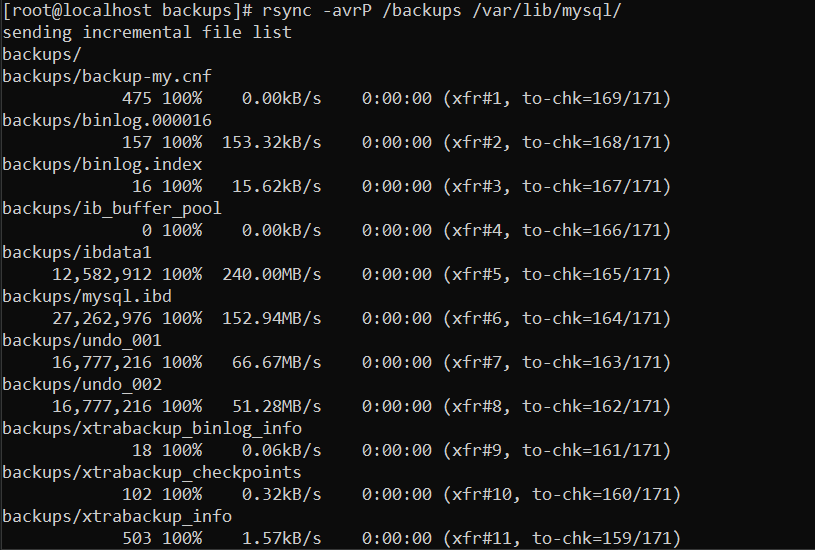
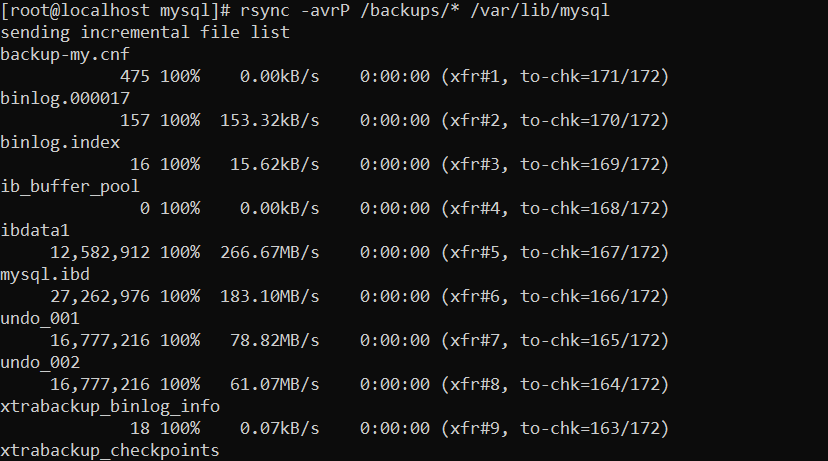
main

diff --git a/Ap4/xtrabackup/README.md b/Ap4/xtrabackup/README.md
@@ -16,8 +16,20 @@ Creem el backup
 
 ![ScreenShot](imgs/backup.png)
 
-Ara restaurarem el backup que acabem de crear
+Parem el servei de mysql
 
-`rsync -avrP /<pathBackup> /<pathDesti>`
+![ScreenShot](imgs/stop.png)
+
+Ara renombrem la carpeta `/var/lib/mysql/`
+
+![ScreenShot](imgs/mv.png)
+
+I restaurarem el backup que acabem de crear
+
+`rsync -avrP /<pathBackup>/* /<pathDesti>`
 
 ![ScreenShot](imgs/restore.png)
+
+I aixequem el servei de mysql
+
+![ScreenShot](imgs/start.png)
